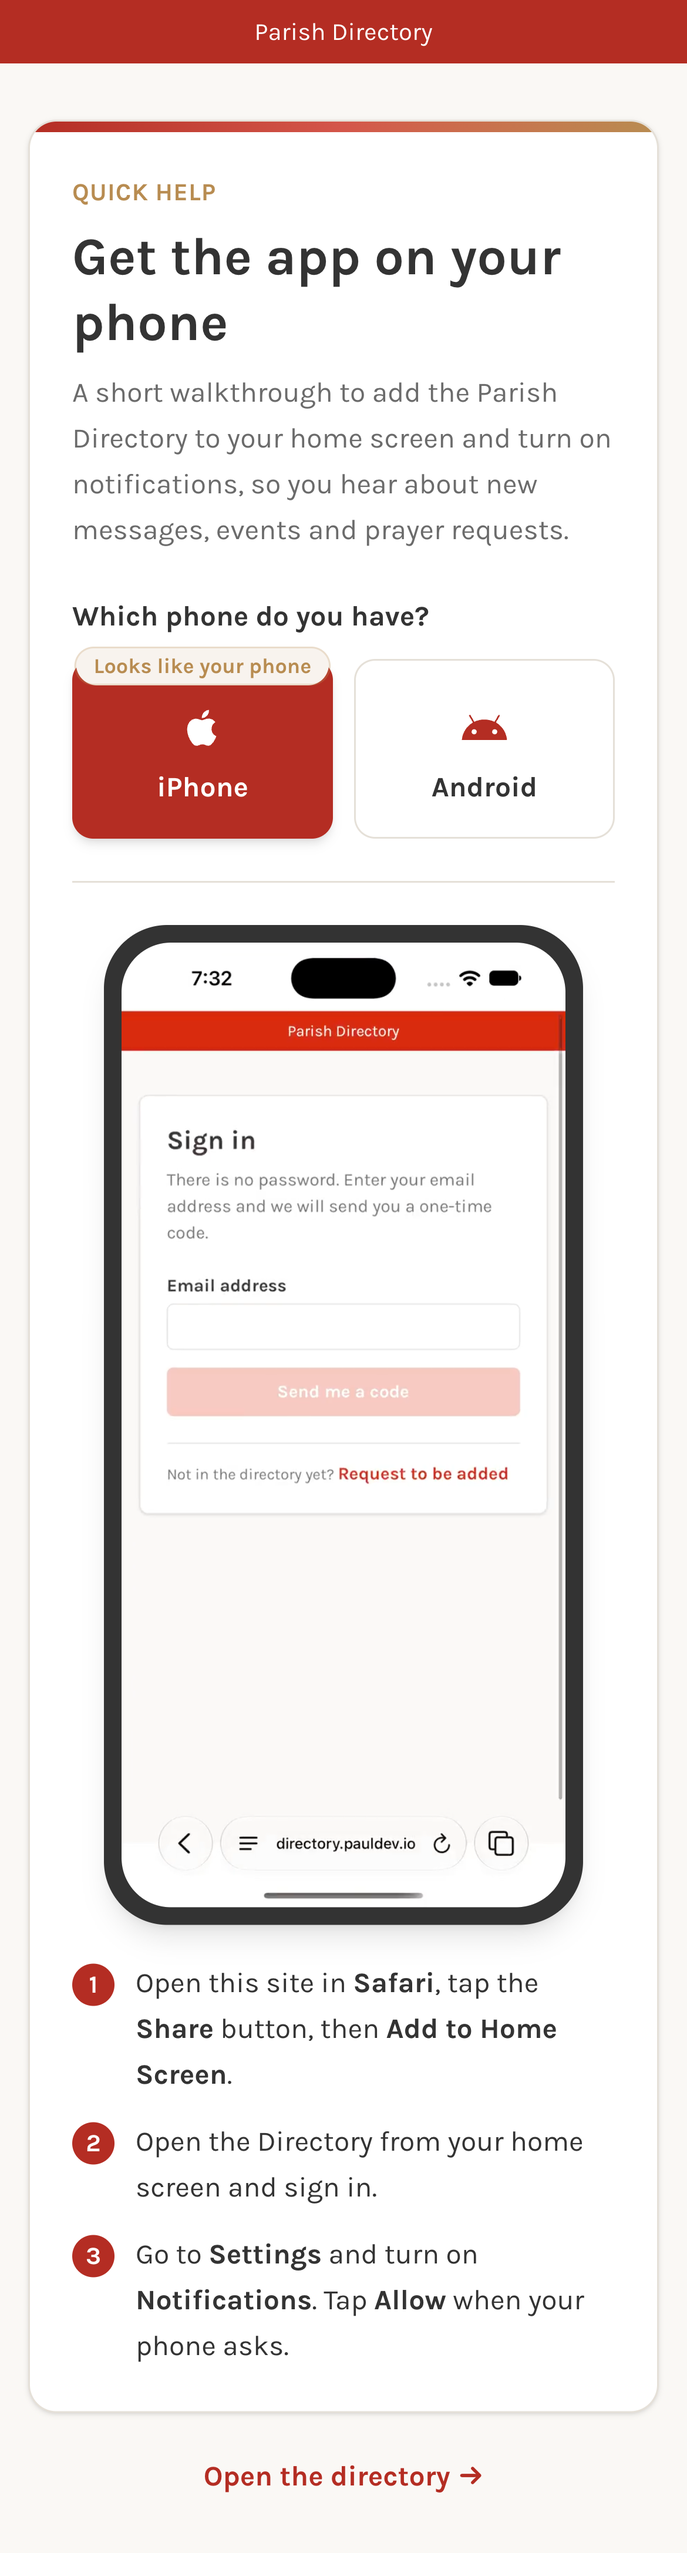
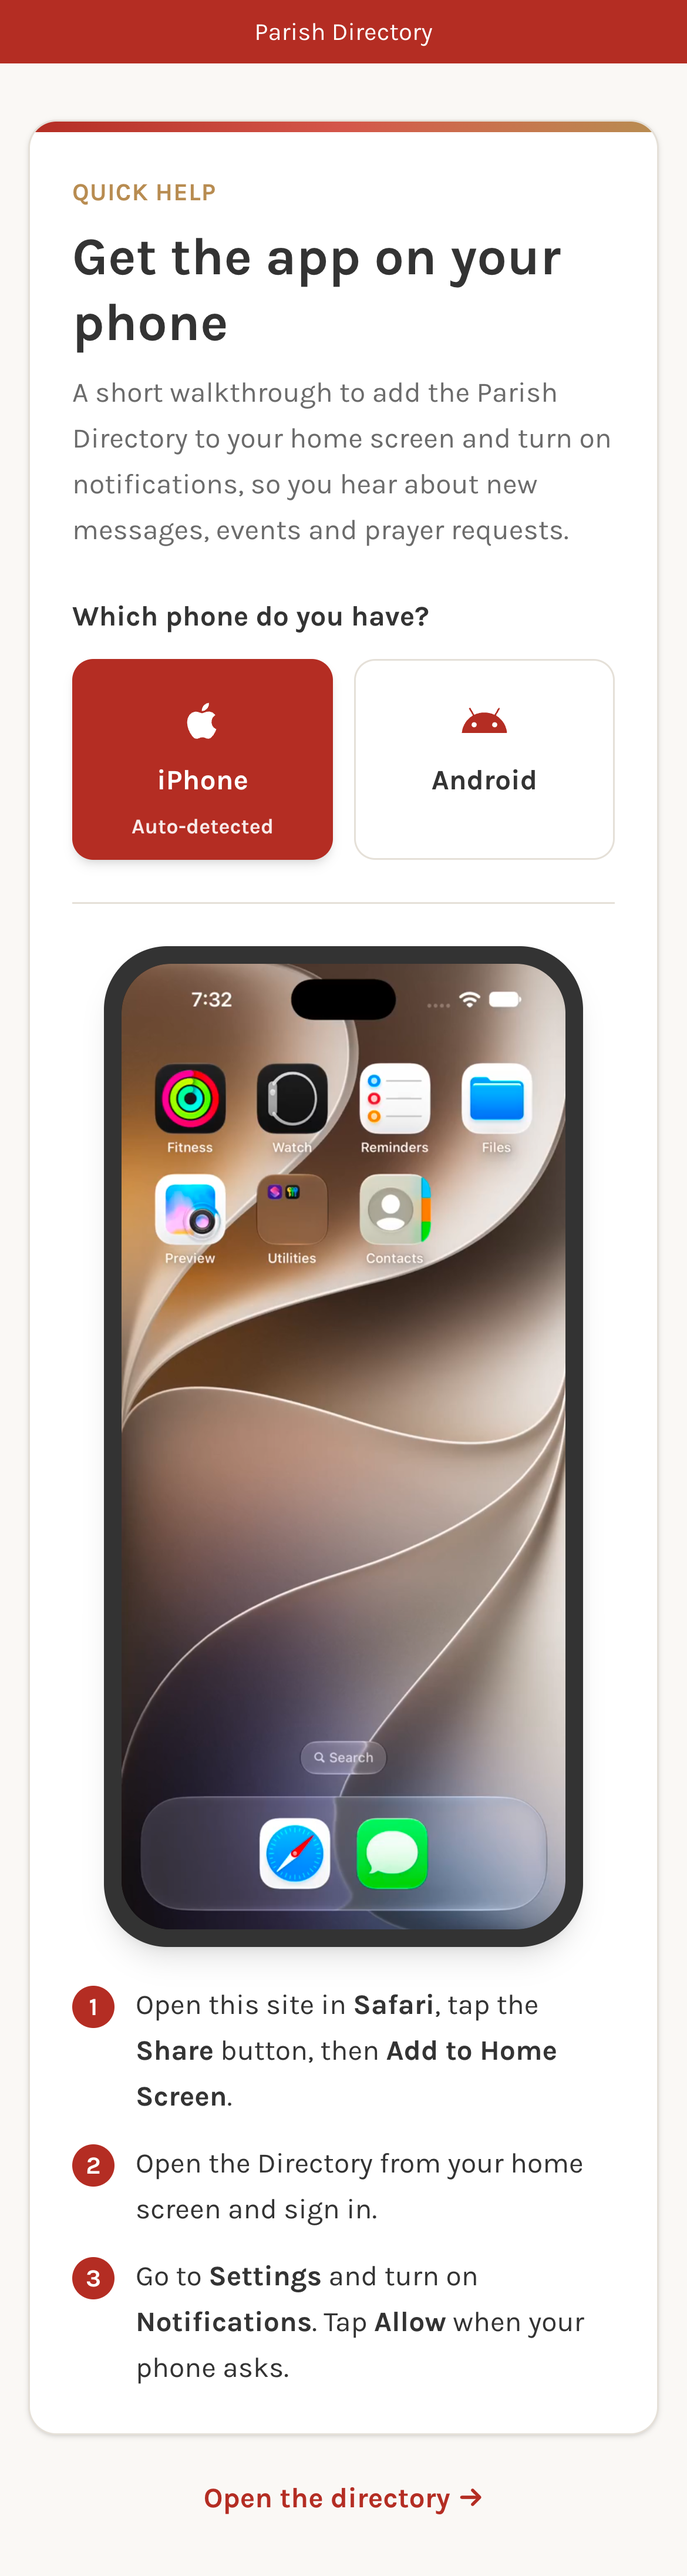
Mark the auto-detected phone inside its button and refresh the screenshots
The suggestion was a pill straddling the button's border. It is now a gold
border and halo with an "Auto-detected" caption inside the card, so nothing
overlaps and both buttons line up. The dev proxy for /help-media also takes
VITE_DEV_HELP_MEDIA_TARGET, to try new recordings from a local folder.

diff --git a/app/src/pages/Help.tsx b/app/src/pages/Help.tsx
@@ -1,7 +1,6 @@
 import { useState, type ReactNode } from "react";
 import { Link } from "react-router";
 import { LandingFrame } from "../components/LandingFrame";
-import { Badge } from "../components/ui";
 import { detectPlatform, type Platform } from "../lib/platform";
 
 /*
@@ -72,10 +71,9 @@ const prefersReducedMotion = () =>
 /**
  * /help -- how to put the directory on a phone and turn notifications on.
  *
- * The browser's user agent only picks which button wears the "Looks like your
- * phone" badge. Nothing plays until the visitor chooses, so a wrong guess (or a
- * desktop, which gets no badge at all) costs one tap rather than the wrong
- * walkthrough.
+ * The browser's user agent only picks which button is marked "Auto-detected".
+ * Nothing plays until the visitor chooses, so a wrong guess (or a desktop,
+ * which marks neither) costs one tap rather than the wrong walkthrough.
  *
  * Public, like /e/:token: it sits outside RootGate because it is read before
  * there is an app to sign in to. The recordings are served from S3 through
@@ -152,26 +150,37 @@ function PhoneChoice({
   suggested: boolean;
   onSelect: () => void;
 }) {
+  /*
+   * The suggestion is part of the card rather than a label stuck on its edge:
+   * a gold border, wash and halo, and a caption set inside the bottom of the
+   * card. The caption's space is reserved
+   * on both cards (`pb-8`), so the two icons and names line up whichever one is
+   * suggested -- and so a desktop, which suggests nothing, looks the same.
+   */
+  const tone = selected
+    ? "border-primary bg-primary text-white shadow-md"
+    : suggested
+      ? "border-accent bg-accent/5 text-ink shadow-sm ring-4 ring-accent/15 hover:shadow-md"
+      : "border-line bg-surface text-ink hover:border-accent hover:shadow-sm";
+
   return (
     <button
       type="button"
       aria-pressed={selected}
       onClick={onSelect}
-      className={`relative flex flex-col items-center gap-2 rounded-xl border px-3 pb-4 pt-6 font-bold transition ${
-        selected
-          ? "border-primary bg-primary text-white shadow-md"
-          : "border-line bg-surface text-ink hover:border-accent hover:shadow-sm"
-      }`}
+      className={`relative flex flex-col items-center gap-2 rounded-xl border px-3 pb-8 pt-5 font-bold transition ${tone}`}
     >
-      {suggested && (
-        // Opaque behind the badge: its own tint is translucent, and the button's
-        // border would show through it.
-        <span className="absolute -top-2.5 left-1/2 -translate-x-1/2 rounded-full bg-surface">
-          <Badge tone="accent">Looks like your phone</Badge>
-        </span>
-      )}
       <span className={selected ? "text-white" : "text-primary"}>{info.glyph}</span>
       {info.label}
+      {suggested && (
+        <span
+          className={`absolute inset-x-0 bottom-2.5 text-xs font-bold ${
+            selected ? "text-white/90" : "text-accent"
+          }`}
+        >
+          Auto-detected
+        </span>
+      )}
     </button>
   );
 }

diff --git a/app/test/Help.test.tsx b/app/test/Help.test.tsx
@@ -39,29 +39,21 @@ describe("Help", () => {
   it("marks the iPhone as the likely one from an iPhone's user agent", () => {
     renderHelp(IPHONE);
 
-    expect(screen.getByRole("button", { name: /iPhone/ })).toHaveTextContent(
-      "Looks like your phone"
-    );
-    expect(screen.getByRole("button", { name: /Android/ })).not.toHaveTextContent(
-      "Looks like your phone"
-    );
+    expect(screen.getByRole("button", { name: /iPhone/ })).toHaveTextContent("Auto-detected");
+    expect(screen.getByRole("button", { name: /Android/ })).not.toHaveTextContent("Auto-detected");
   });
 
   it("marks Android as the likely one from an Android user agent", () => {
     renderHelp(ANDROID);
 
-    expect(screen.getByRole("button", { name: /Android/ })).toHaveTextContent(
-      "Looks like your phone"
-    );
-    expect(screen.getByRole("button", { name: /iPhone/ })).not.toHaveTextContent(
-      "Looks like your phone"
-    );
+    expect(screen.getByRole("button", { name: /Android/ })).toHaveTextContent("Auto-detected");
+    expect(screen.getByRole("button", { name: /iPhone/ })).not.toHaveTextContent("Auto-detected");
   });
 
   it("suggests nothing on a desktop", () => {
     renderHelp(DESKTOP);
 
-    expect(screen.queryByText("Looks like your phone")).not.toBeInTheDocument();
+    expect(screen.queryByText("Auto-detected")).not.toBeInTheDocument();
   });
 
   it("does not choose for the visitor, even when it has a guess", () => {

diff --git a/app/vite.config.ts b/app/vite.config.ts
@@ -71,9 +71,13 @@ export default defineConfig(({ mode }) => {
     "/photos": { target, changeOrigin: true },
     /*
      * The /help page's recordings live in S3 and are not in the repo or on the
-     * local API, so dev and preview borrow the deployed copies.
+     * local API, so dev and preview borrow the deployed copies. Point
+     * VITE_DEV_HELP_MEDIA_TARGET at a local folder server to try new ones first.
      */
-    "/help-media": { target: "https://directory.pauldev.io", changeOrigin: true },
+    "/help-media": {
+      target: env.VITE_DEV_HELP_MEDIA_TARGET ?? "https://directory.pauldev.io",
+      changeOrigin: true,
+    },
   };
 
   return {
